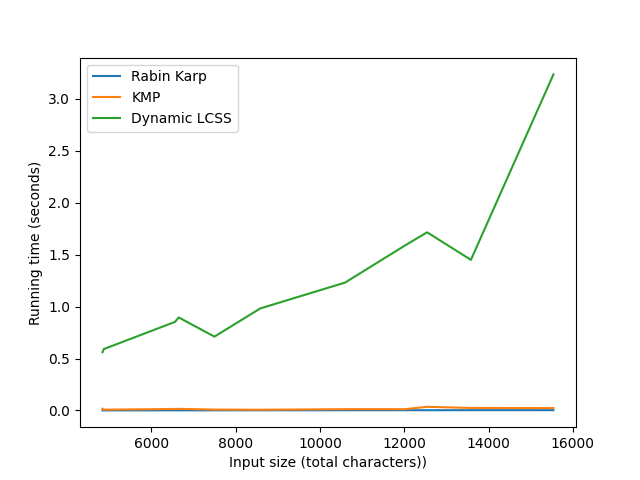
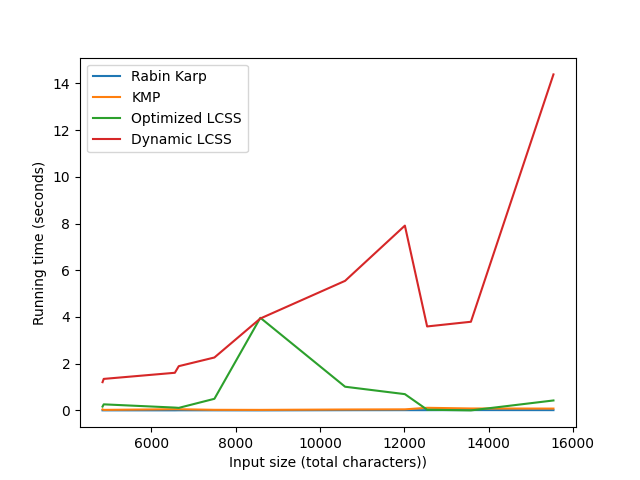
final graphs

diff --git a/main.py b/main.py
@@ -11,19 +11,19 @@ dynamic_lcss_times = []
 rabin_karp_times = []
 
 src_dataset = natsorted(
-    glob.glob("Data/external-detection-corpus/source-documents/*.txt"), alg=ns.IGNORECASE)
+    glob.glob("Data/test-corpus/sources/*.txt"), alg=ns.IGNORECASE)
 
 sus_dataset = natsorted(
-    glob.glob("Data/external-detection-corpus/source-documents/*.txt"), alg=ns.IGNORECASE)
+    glob.glob("Data/test-corpus/sus/*.txt"), alg=ns.IGNORECASE)
 
 # get the maximum of 10 or dataset length
 max_files = min(len(src_dataset), 10)
 
 
 def testAlgorithm(myFunction, time_array: list, algoName: str):
-    for i in range(max_files):
-        src_file = src_dataset[-10:][i]
-        sus_file = sus_dataset[-10:][i]
+    for i in range(len(src_dataset)):
+        src_file = src_dataset[i]
+        sus_file = sus_dataset[i]
 
         # length of source file + length of sus file
         input_size = len(open(src_file, encoding="utf-8").read()) + \
@@ -54,9 +54,9 @@ def testAlgorithm(myFunction, time_array: list, algoName: str):
 # TODO: Add comparison functions
 
 
-# testAlgorithm(rabin_karp.runRabinKarp, rabin_karp_times, "Rabin Karp")
-# testAlgorithm(kmp.runKMP, kmp_times, "KMP")
+testAlgorithm(rabin_karp.runRabinKarp, rabin_karp_times, "Rabin Karp")
+testAlgorithm(kmp.runKMP, kmp_times, "KMP")
 testAlgorithm(optimized_lcss.runLCSS_optimized,
               optimized_lcss_times, "Optimized LCSS")
-# testAlgorithm(dynamic_lcss.runLCSS_dynamic, dynamic_lcss_times, "Dynamic LCSS")
-# testAlgorithm(naive_lcss.runLCSS_naive, naive_lcss_times, "Naive LCSS")
+testAlgorithm(dynamic_lcss.runLCSS_dynamic, dynamic_lcss_times, "Dynamic LCSS")
+testAlgorithm(naive_lcss.runLCSS_naive, naive_lcss_times, "Naive LCSS")
